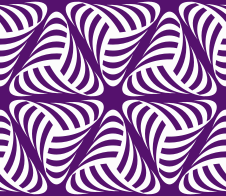
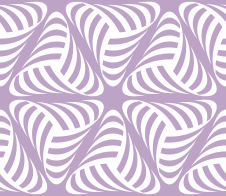
changing up patterns

diff --git a/css/index.css b/css/index.css
@@ -55,7 +55,8 @@ body {
   height: 100%;
   min-height: 100vh;
   padding-bottom: 2%;
-  background: url("/assets/pattern3.png");
+  background: url("/assets/pattern14.png");
+  
 }
 
 #fourth-section {
@@ -327,7 +328,7 @@ a:active {
 
 .second-section-title {
   font-size: 4rem;
-  width: 40%;
+  width: 40vw;
   display: flex;
   justify-content: center;
   margin: 4% 0;
@@ -341,6 +342,14 @@ a:active {
     font-size: 3rem;
   }
 }
+@media (max-width: 700px) {
+  .second-section-title {
+    font-size: 2rem;
+    
+  }
+}
+
+
 
 .second-section-title h1 {
   margin: 0;
@@ -362,7 +371,7 @@ a:active {
   padding-top: 1%;
   padding-bottom: 6%;
   box-shadow: 5px 10px 30px 8px #46324648;
-  background-image: url("/assets/pattern.png");
+  background-image: url("/assets/pattern12.png");
 }
 
 .card-wrapper {
@@ -543,7 +552,7 @@ a:active {
   font-size: 1.8rem;
   box-shadow: 0 0 1px white, 0 0 2px white, 0 0 4px white, 0 4px 5px #3a043a,
     0 4px 5px #0f000f;
-  background-color:#561264c4;
+  background-color:#561264da;
 }
 
 .skills {
@@ -593,20 +602,24 @@ a:active {
   background-color: #f7f5f8;
 }
 
+.third-section-title h1 {
+  margin: 0;
+ 
+}
+
 .third-section-title  {
-  font-size: 2.5rem;
-  width: 40%;
-  height: 20%;
+  font-size: 4rem;
+  width: 40vw;
   display: flex;
   justify-content: center;
-  align-items: center;
-  margin: 1% 0;
-  padding: 0%;
-  box-shadow: 3px 3px 5px #3a043a;
-  color: rgb(214, 198, 198);
-  text-shadow: 0 0 0.3px white, 0 0 0.5px white, 0 0 0.8px white,
-    0 3px 4px#140114, 0 0 6px #3b033b, 0 0 4px blueviolet;
-  background: linear-gradient(45deg, #3f185c, #eec6df, #560858);
+  margin: 4% 0;
+  padding: 1%;
+  box-shadow: 3px 3px 6px #3a043a;
+  
+  text-shadow: 0 0 2px white, 0 0 3px white, 0 0 3px #864E8F, 0 2px 5px #3a043a,
+    0 3px 5px #800980a8;
+  background-color: #864e8fea;
+  box-shadow: 3px 3px 6px #3a043a;
   
 }
 
